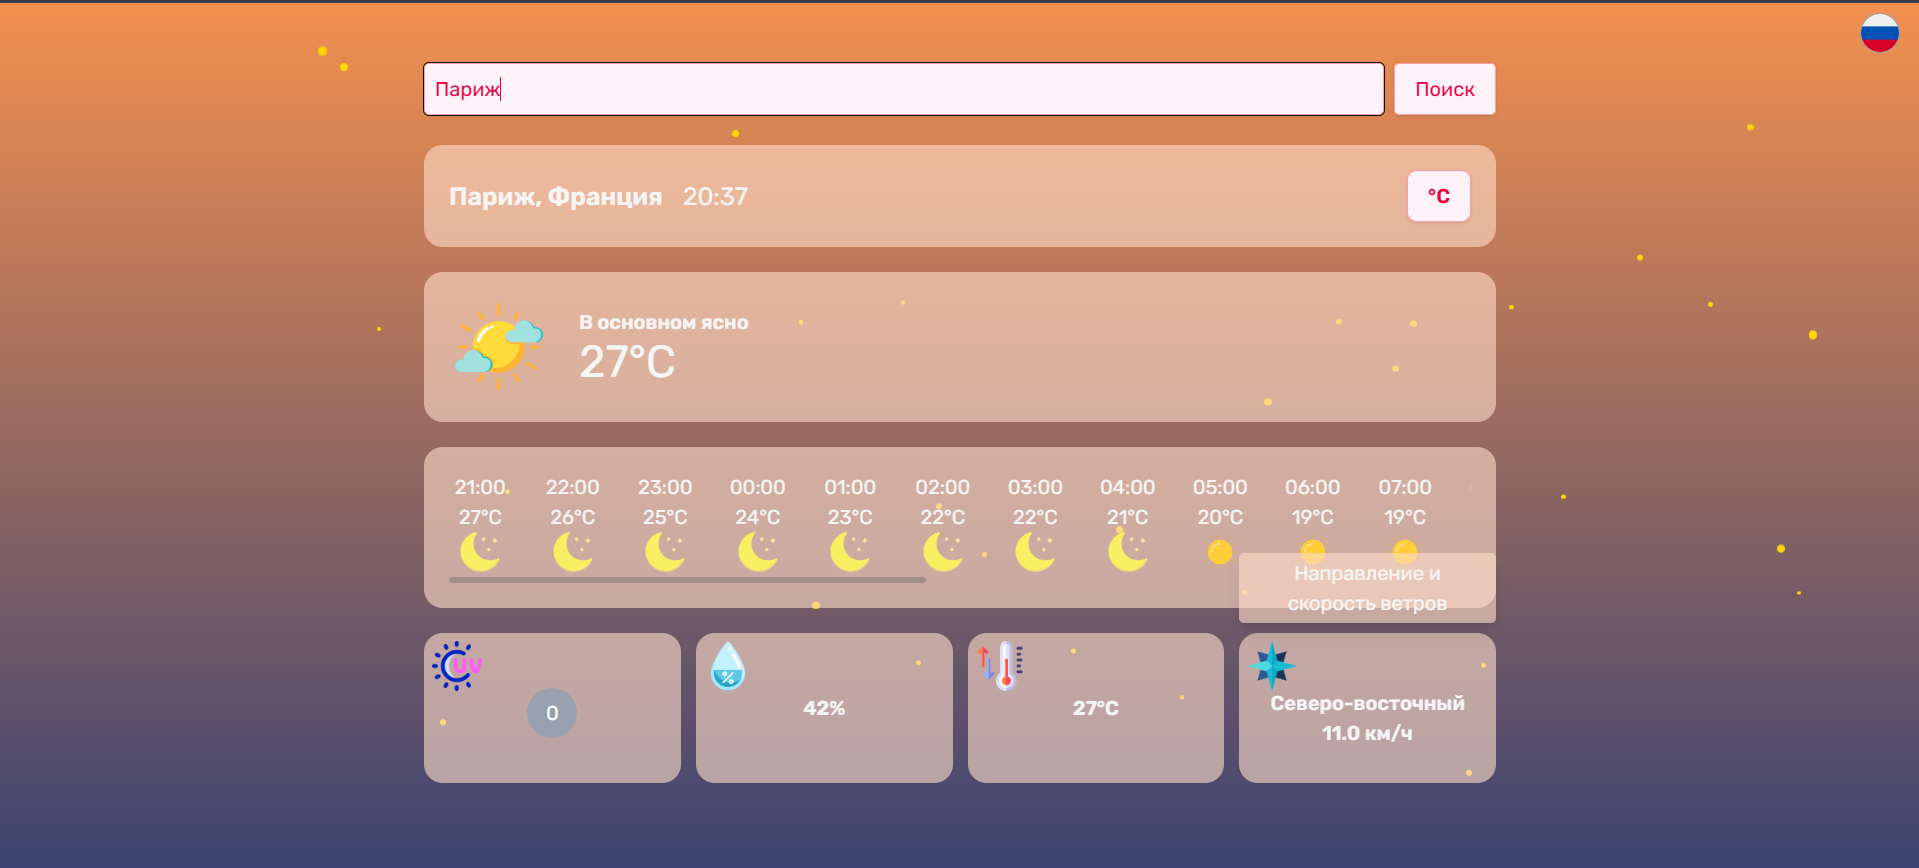
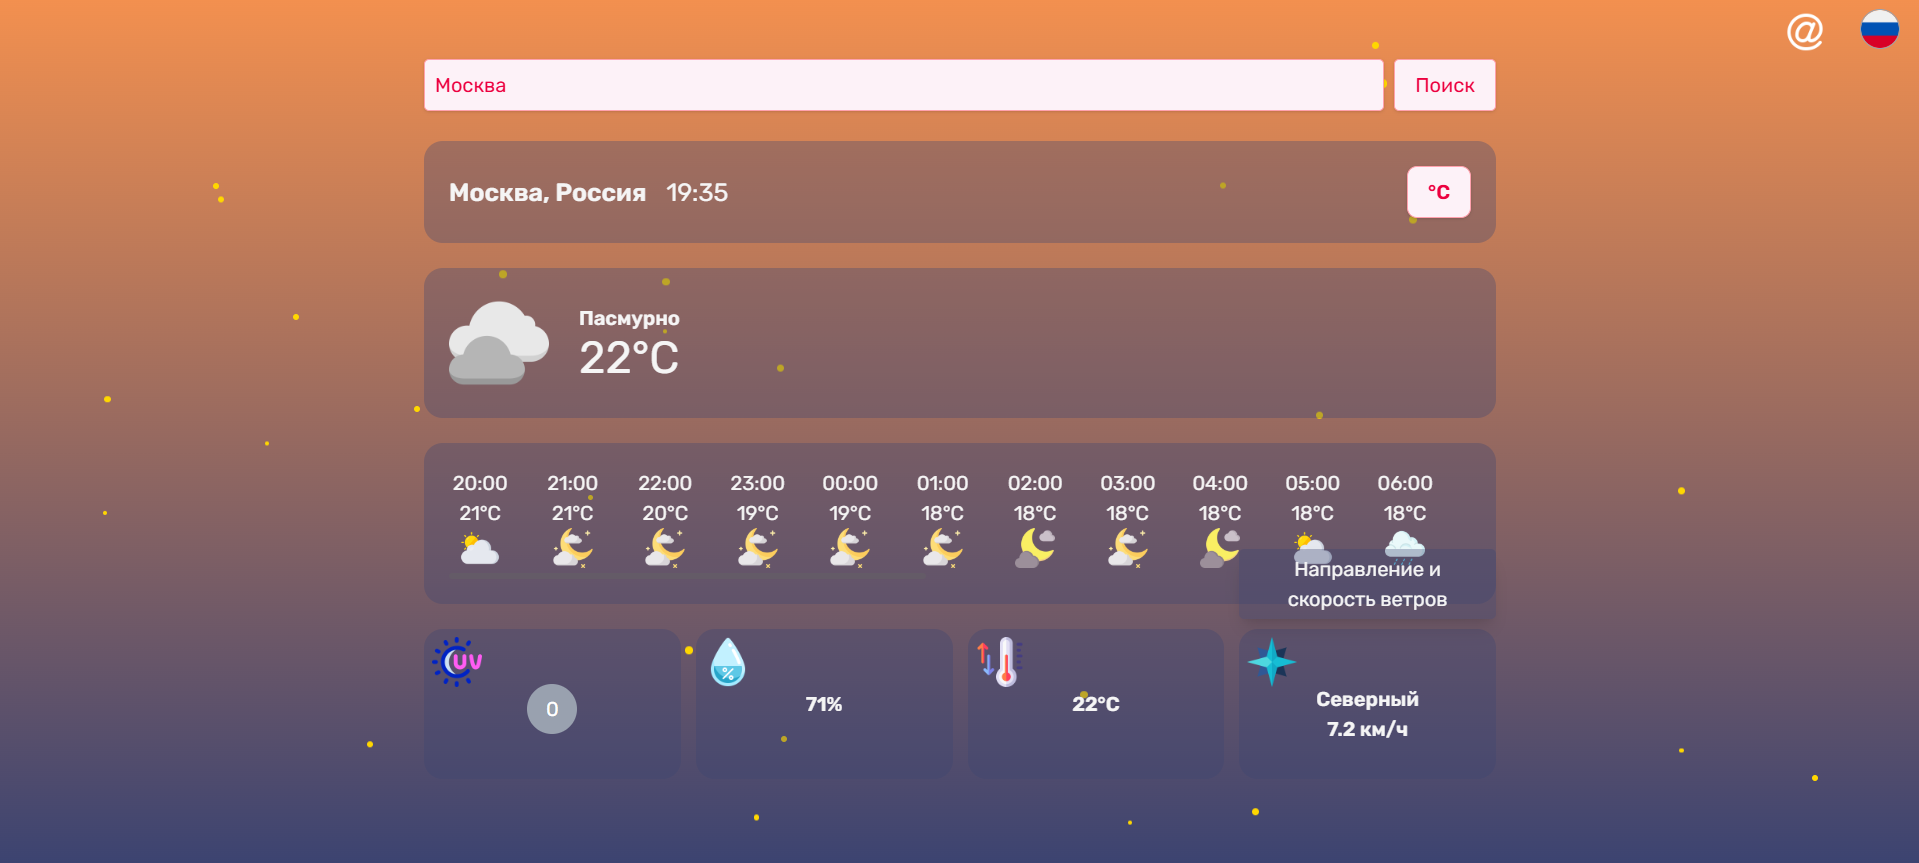
new showcase screenshots

diff --git a/README.ja.md b/README.ja.md
@@ -4,13 +4,15 @@ React 19 + TypeScriptで開発された多言語対応の天気アプリ。Tailw
 
 [デモはこちら](https://rue-eru.github.io/weather-app)
 
-![Starting Screen](./public/images/demo-showcase/starting-screen-en.png)
-![Loading Screem](./public/images/demo-showcase/loading-ja.png)
-![Timezone: Day](./public/images/demo-showcase/day-time-ja.png)
-![Timezone: Evening](./public/images/demo-showcase/evening-ru.png)
-![Timezone: Night](./public/images/demo-showcase/night-time-ru.png)
-![Timezone: Morning](./public/images/demo-showcase/morning-en.png)
-![Mobile](./public/images/demo-showcase/sm-viewport-ja.png)
+| 状態 | 表示例 |
+|------|--------|
+| 起動画面 | ![起動画面](./public/images/demo-showcase/starting-screen-en.png) |
+| データ取得中 | ![読み込み中](./public/images/demo-showcase/loading-ja.png) |
+| 昼間表示 | ![昼間表示](./public/images/demo-showcase/day-en.png) |
+| 夕方表示 | ![夕方表示](./public/images/demo-showcase/evening-ru.png) | 
+| 夜間表示 | ![夜間表示](./public/images/demo-showcase/night-ja.png) |
+| 早朝表示 | ![早朝表示](./public/images/demo-showcase/morning-ja.png) |
+| スマートフォン表示 | ![スマートフォン表示](./public/images/demo-showcase/sm-morning-en.png) |
 
 ## ✨ 主な特徴
 - **3ヶ国語対応** (英語/日本語/ロシア語)

diff --git a/README.md b/README.md
@@ -8,13 +8,13 @@ A fully responsive weather application that visualizes real-time weather through
 
 [Live Demo](https://rue-eru.github.io/weather-app)
 
-![Starting Screen](./public/images/demo-showcase/starting-screen-en.png)
-![Loading Screem](./public/images/demo-showcase/loading-ja.png)
-![Timezone: Day](./public/images/demo-showcase/day-time-ja.png)
-![Timezone: Evening](./public/images/demo-showcase/evening-ru.png)
-![Timezone: Night](./public/images/demo-showcase/night-time-ru.png)
-![Timezone: Morning](./public/images/demo-showcase/morning-en.png)
-![Mobile](./public/images/demo-showcase/sm-viewport-ja.png)
+| Starting Screen | ![Starting Screen](./public/images/demo-showcase/starting-screen-en.png) |
+| Loading Screen | ![Loading Screen](./public/images/demo-showcase/loading-ja.png) |
+| Timezone: Day | ![Timezone: Day](./public/images/demo-showcase/day-en.png) |
+| Timezone: Evening | ![Timezone: Evening](./public/images/demo-showcase/evening-ru.png) | 
+| Timezone: Night | ![Timezone: Night](./public/images/demo-showcase/night-ja.png) |
+| Timezone: Morning | ![Timezone: Morning](./public/images/demo-showcase/morning-ja.png) |
+| Mobile | ![Mobile](./public/images/demo-showcase/sm-morning-en.png) |
 
 ---
 
